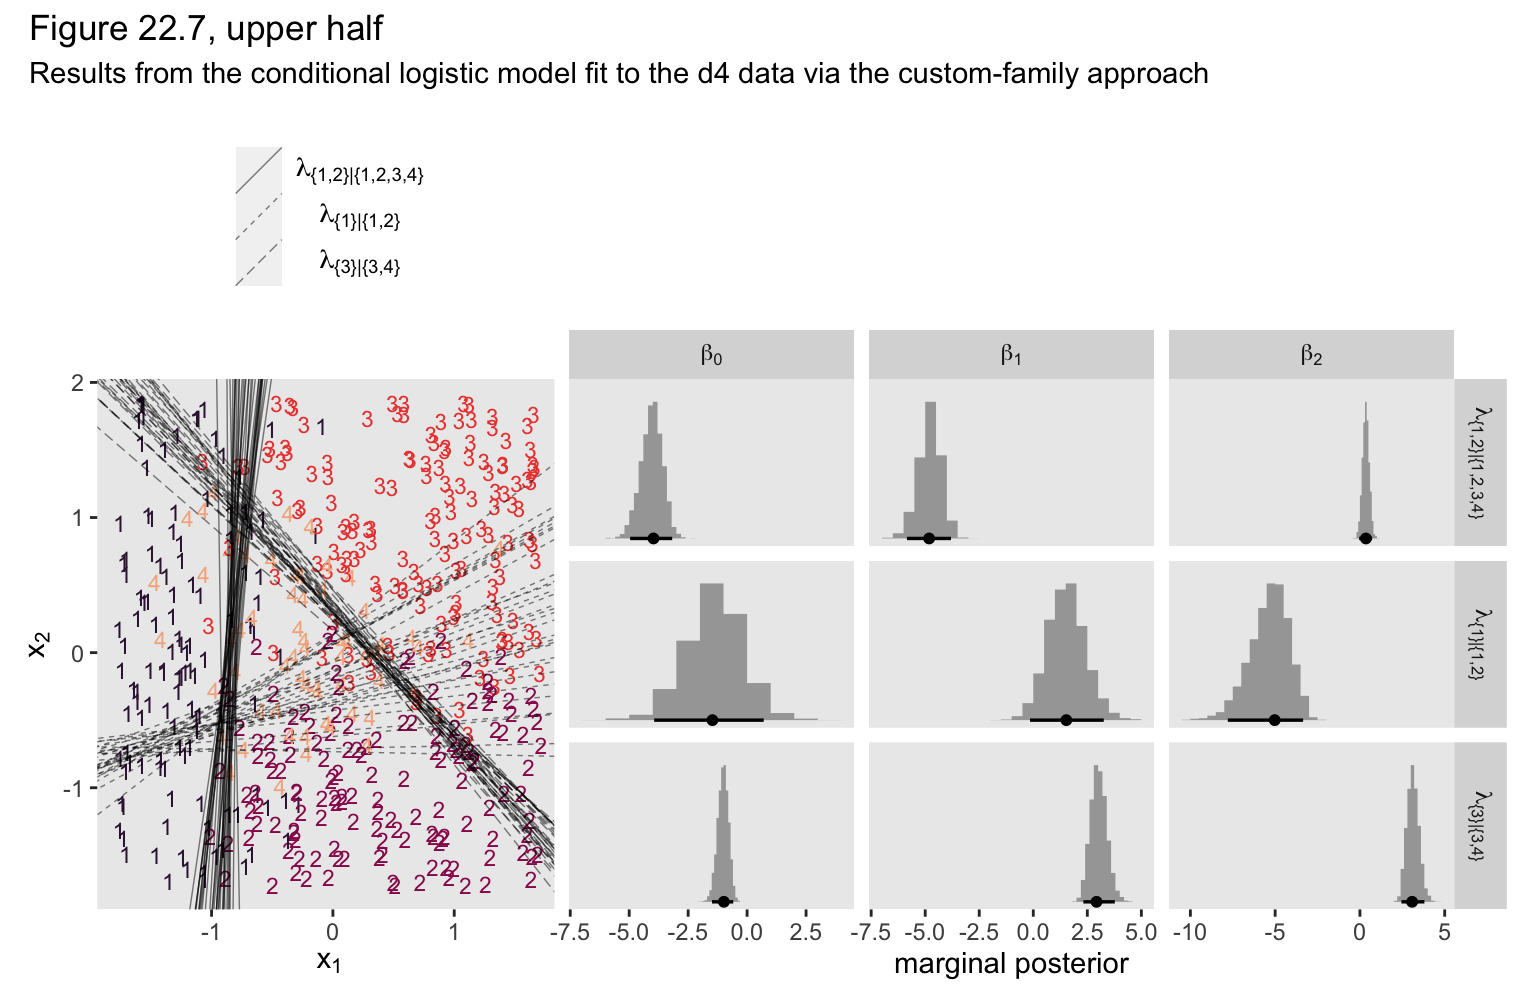
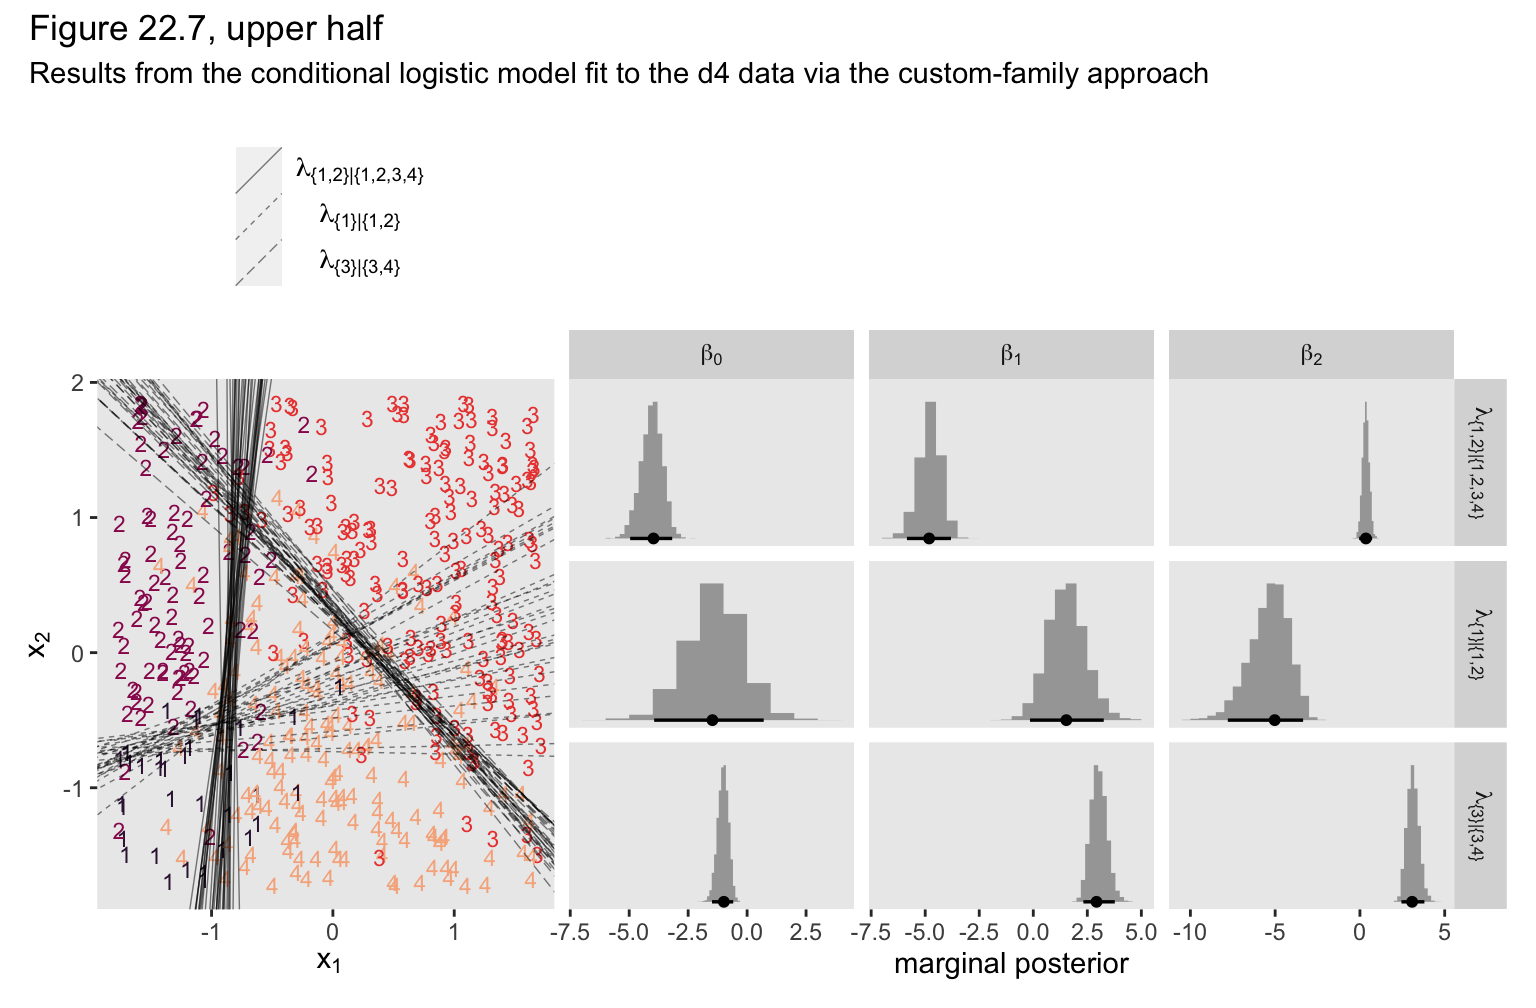
d3 != d4

Changed region(s): [[0.0625, 0.3998, 0.375, 0.8919], [0.1875, 0.3998, 0.2188, 0.4306], [0.0625, 0.3998, 0.0938, 0.4306]]

diff --git a/content/post/2021-11-17-conditional-logistic-models-with-brms-rough-draft/index.html b/content/post/2021-11-17-conditional-logistic-models-with-brms-rough-draft/index.html
@@ -766,7 +766,7 @@ p1 &lt;-
          slope     = -X1 / X2) %&gt;% 
   
   ggplot() +
-  geom_text(data = d3,
+  geom_text(data = d4,
             aes(x = X1, y = X2, label = Y, color = factor(Y)),
             size = 3, show.legend = F) +
   geom_abline(aes(intercept = intercept,
@@ -1194,25 +1194,26 @@ post %&gt;%
 ## [1] stats     graphics  grDevices utils     datasets  methods   base     
 ## 
 ## other attached packages:
-##  [1] bayesplot_1.8.1 posterior_1.0.1 patchwork_1.1.1 tidybayes_3.0.1
-##  [5] brms_2.16.2     Rcpp_1.0.7      forcats_0.5.1   stringr_1.4.0  
-##  [9] dplyr_1.0.7     purrr_0.3.4     readr_2.0.1     tidyr_1.1.3    
-## [13] tibble_3.1.5    ggplot2_3.3.5   tidyverse_1.3.1
+##  [1] bayesplot_1.8.1      posterior_1.1.0.9000 patchwork_1.1.1     
+##  [4] tidybayes_3.0.1      brms_2.16.2          Rcpp_1.0.7          
+##  [7] forcats_0.5.1        stringr_1.4.0        dplyr_1.0.7         
+## [10] purrr_0.3.4          readr_2.0.1          tidyr_1.1.3         
+## [13] tibble_3.1.6         ggplot2_3.3.5        tidyverse_1.3.1     
 ## 
 ## loaded via a namespace (and not attached):
-##   [1] readxl_1.3.1         backports_1.2.1      RcppEigen_0.3.3.9.1 
+##   [1] readxl_1.3.1         backports_1.3.0      RcppEigen_0.3.3.9.1 
 ##   [4] plyr_1.8.6           igraph_1.2.6         svUnit_1.0.6        
 ##   [7] splines_4.1.1        crosstalk_1.1.1      TH.data_1.0-10      
 ##  [10] rstantools_2.1.1     inline_0.3.19        digest_0.6.28       
 ##  [13] htmltools_0.5.2      rsconnect_0.8.24     fansi_0.5.0         
 ##  [16] BH_1.75.0-0          magrittr_2.0.1       checkmate_2.0.0     
 ##  [19] tzdb_0.1.2           modelr_0.1.8         RcppParallel_5.1.4  
-##  [22] matrixStats_0.60.1   vroom_1.5.4          xts_0.12.1          
+##  [22] matrixStats_0.61.0   vroom_1.5.4          xts_0.12.1          
 ##  [25] sandwich_3.0-1       prettyunits_1.1.1    colorspace_2.0-2    
 ##  [28] rvest_1.0.1          ggdist_3.0.0         haven_2.4.3         
-##  [31] xfun_0.25            callr_3.7.0          crayon_1.4.1        
+##  [31] xfun_0.25            callr_3.7.0          crayon_1.4.2        
 ##  [34] jsonlite_1.7.2       lme4_1.1-27.1        survival_3.2-11     
-##  [37] zoo_1.8-9            glue_1.4.2           gtable_0.3.0        
+##  [37] zoo_1.8-9            glue_1.5.0           gtable_0.3.0        
 ##  [40] emmeans_1.6.3        V8_3.4.2             distributional_0.2.2
 ##  [43] pkgbuild_1.2.0       rstan_2.26.3         abind_1.4-5         
 ##  [46] scales_1.1.1         mvtnorm_1.1-2        emo_0.0.0.9000      
@@ -1223,10 +1224,10 @@ post %&gt;%
 ##  [61] threejs_0.3.3        arrayhelpers_1.1-0   ellipsis_0.3.2      
 ##  [64] pkgconfig_2.0.3      loo_2.4.1            farver_2.1.0        
 ##  [67] sass_0.4.0           dbplyr_2.1.1         utf8_1.2.2          
-##  [70] labeling_0.4.2       tidyselect_1.1.1     rlang_0.4.11        
+##  [70] labeling_0.4.2       tidyselect_1.1.1     rlang_0.4.12        
 ##  [73] reshape2_1.4.4       later_1.3.0          munsell_0.5.0       
-##  [76] cellranger_1.1.0     tools_4.1.1          cli_3.0.1           
-##  [79] generics_0.1.0       broom_0.7.9          ggridges_0.5.3      
+##  [76] cellranger_1.1.0     tools_4.1.1          cli_3.1.0           
+##  [79] generics_0.1.1       broom_0.7.9          ggridges_0.5.3      
 ##  [82] evaluate_0.14        fastmap_1.1.0        yaml_2.2.1          
 ##  [85] bit64_4.0.5          processx_3.5.2       knitr_1.33          
 ##  [88] fs_1.5.0             nlme_3.1-152         mime_0.11           
@@ -1237,7 +1238,7 @@ post %&gt;%
 ## [103] blogdown_1.5         Brobdingnag_1.2-6    lattice_0.20-44     
 ## [106] Matrix_1.3-4         nloptr_1.2.2.2       markdown_1.1        
 ## [109] shinyjs_2.0.0        tensorA_0.36.2       vctrs_0.3.8         
-## [112] pillar_1.6.3         lifecycle_1.0.1      jquerylib_0.1.4     
+## [112] pillar_1.6.4         lifecycle_1.0.1      jquerylib_0.1.4     
 ## [115] bridgesampling_1.1-2 estimability_1.3     httpuv_1.6.2        
 ## [118] extraDistr_1.9.1     R6_2.5.1             bookdown_0.23       
 ## [121] promises_1.2.0.1     gridExtra_2.3        codetools_0.2-18    
